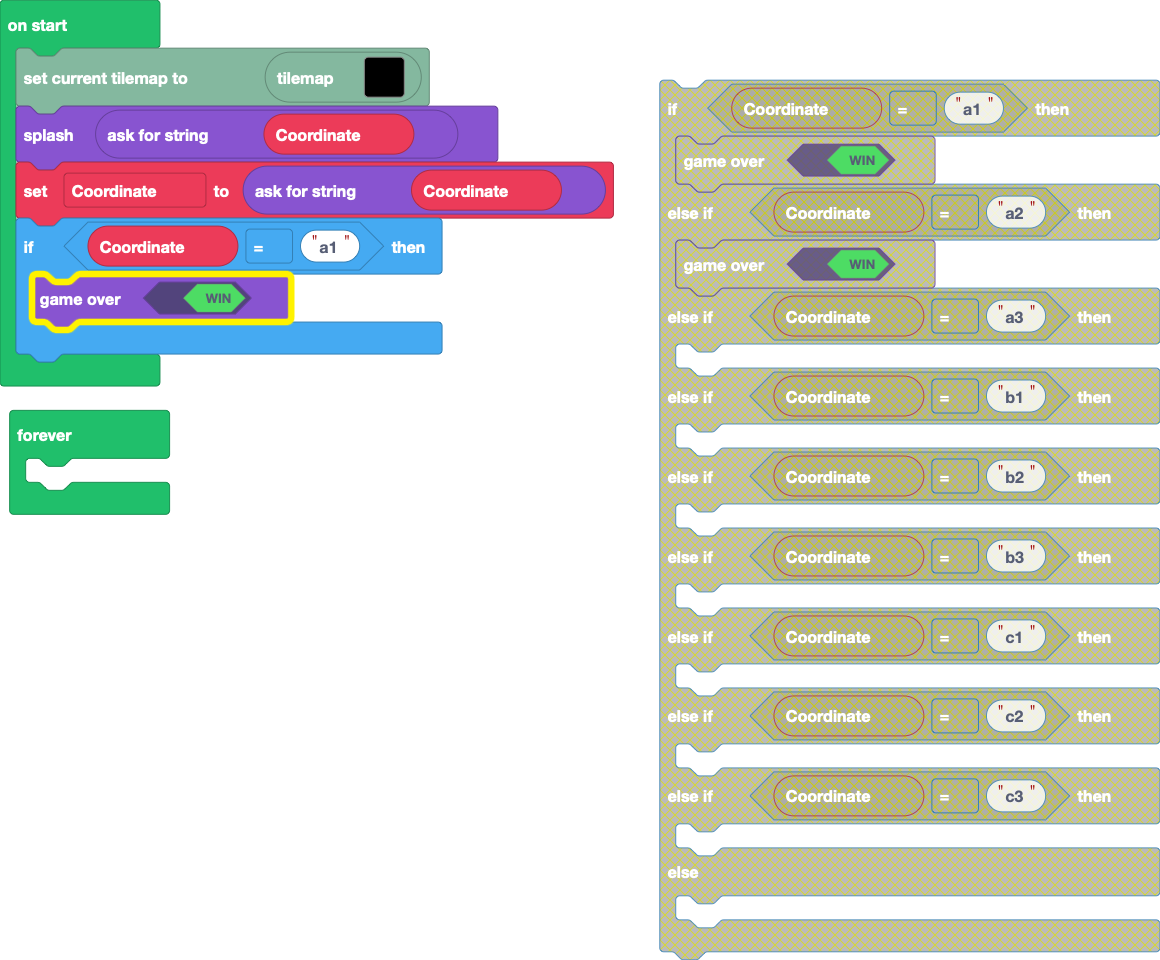
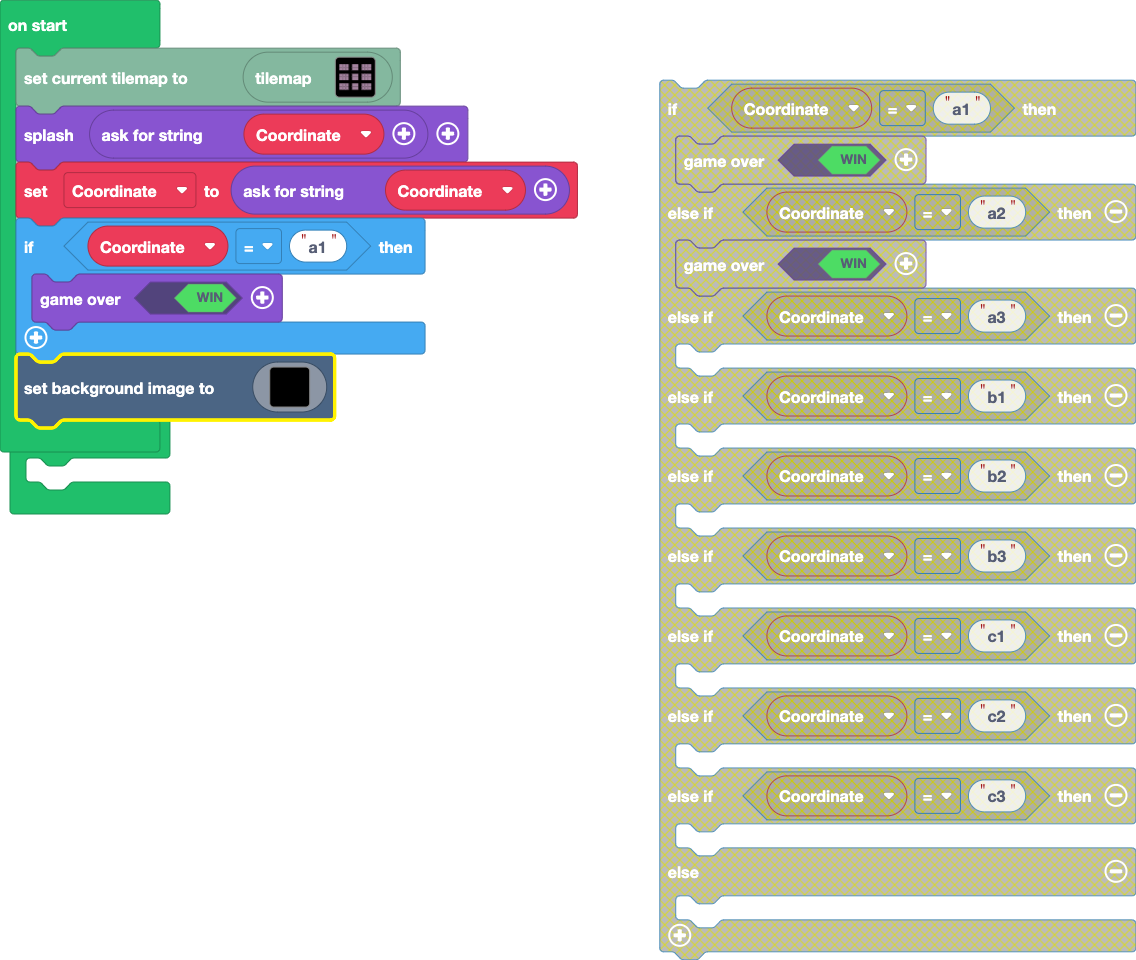
Update main.blocks, main.ts

diff --git a/main.ts b/main.ts
@@ -5,6 +5,128 @@ Coordinate = game.askForString(Coordinate)
 if (Coordinate == "a1") {
     game.over(true)
 }
+scene.setBackgroundImage(img`
+    ................................................................................................................................................................
+    ................................................................................................................................................................
+    ................................................................................................................................................................
+    ................................................................................................................................................................
+    ................................................................................................................................................................
+    ................................................................................................................................................................
+    ................................................................................................................................................................
+    ................................................................................................................................................................
+    ................................................................................................................................................................
+    ................................................................................................................................................................
+    ................................................................................................................................................................
+    ................................................................................................................................................................
+    ................................................................................................................................................................
+    ................................................................................................................................................................
+    ................................................................................................................................................................
+    ................................................................................................................................................................
+    ................................................................................................................................................................
+    ................................................................................................................................................................
+    ................................................................................................................................................................
+    ................................................................................................................................................................
+    ................................................................................................................................................................
+    ................................................................................................................................................................
+    ................................................................................................................................................................
+    ................................................................................................................................................................
+    ................................................................................................................................................................
+    ................................................................................................................................................................
+    ................................................................................................................................................................
+    ................................................................................................................................................................
+    ................................................................................................................................................................
+    ................................................................................................................................................................
+    ................................................................................................................................................................
+    ................................................................................................................................................................
+    ................................................................................................................................................................
+    ................................................................................................................................................................
+    ................................................................................................................................................................
+    ................................................................................................................................................................
+    ................................................................................................................................................................
+    ................................................................................................................................................................
+    ................................................................................................................................................................
+    ................................................................................................................................................................
+    ................................................................................................................................................................
+    ................................................................................................................................................................
+    ................................................................................................................................................................
+    ................................................................................................................................................................
+    ................................................................................................................................................................
+    ................................................................................................................................................................
+    ................................................................................................................................................................
+    ................................................................................................................................................................
+    ................................................................................................................................................................
+    ................................................................................................................................................................
+    ................................................................................................................................................................
+    ................................................................................................................................................................
+    ................................................................................................................................................................
+    ................................................................................................................................................................
+    ................................................................................................................................................................
+    ................................................................................................................................................................
+    ................................................................................................................................................................
+    ................................................................................................................................................................
+    ................................................................................................................................................................
+    ................................................................................................................................................................
+    ................................................................................................................................................................
+    ................................................................................................................................................................
+    ................................................................................................................................................................
+    ................................................................................................................................................................
+    ................................................................................................................................................................
+    ................................................................................................................................................................
+    ................................................................................................................................................................
+    ................................................................................................................................................................
+    ................................................................................................................................................................
+    ................................................................................................................................................................
+    ................................................................................................................................................................
+    ................................................................................................................................................................
+    ................................................................................................................................................................
+    ................................................................................................................................................................
+    ................................................................................................................................................................
+    ................................................................................................................................................................
+    ................................................................................................................................................................
+    ................................................................................................................................................................
+    ................................................................................................................................................................
+    ................................................................................................................................................................
+    ................................................................................................................................................................
+    ................................................................................................................................................................
+    ................................................................................................................................................................
+    ................................................................................................................................................................
+    ................................................................................................................................................................
+    ................................................................................................................................................................
+    ................................................................................................................................................................
+    ................................................................................................................................................................
+    ................................................................................................................................................................
+    ................................................................................................................................................................
+    ................................................................................................................................................................
+    ................................................................................................................................................................
+    ................................................................................................................................................................
+    ................................................................................................................................................................
+    ................................................................................................................................................................
+    ................................................................................................................................................................
+    ................................................................................................................................................................
+    ................................................................................................................................................................
+    ................................................................................................................................................................
+    ................................................................................................................................................................
+    ................................................................................................................................................................
+    ................................................................................................................................................................
+    ................................................................................................................................................................
+    ................................................................................................................................................................
+    ................................................................................................................................................................
+    ................................................................................................................................................................
+    ................................................................................................................................................................
+    ................................................................................................................................................................
+    ................................................................................................................................................................
+    ................................................................................................................................................................
+    ................................................................................................................................................................
+    ................................................................................................................................................................
+    ................................................................................................................................................................
+    ................................................................................................................................................................
+    ................................................................................................................................................................
+    ................................................................................................................................................................
+    ................................................................................................................................................................
+    ................................................................................................................................................................
+    ................................................................................................................................................................
+    ................................................................................................................................................................
+    `)
 forever(function () {
 	
 })
